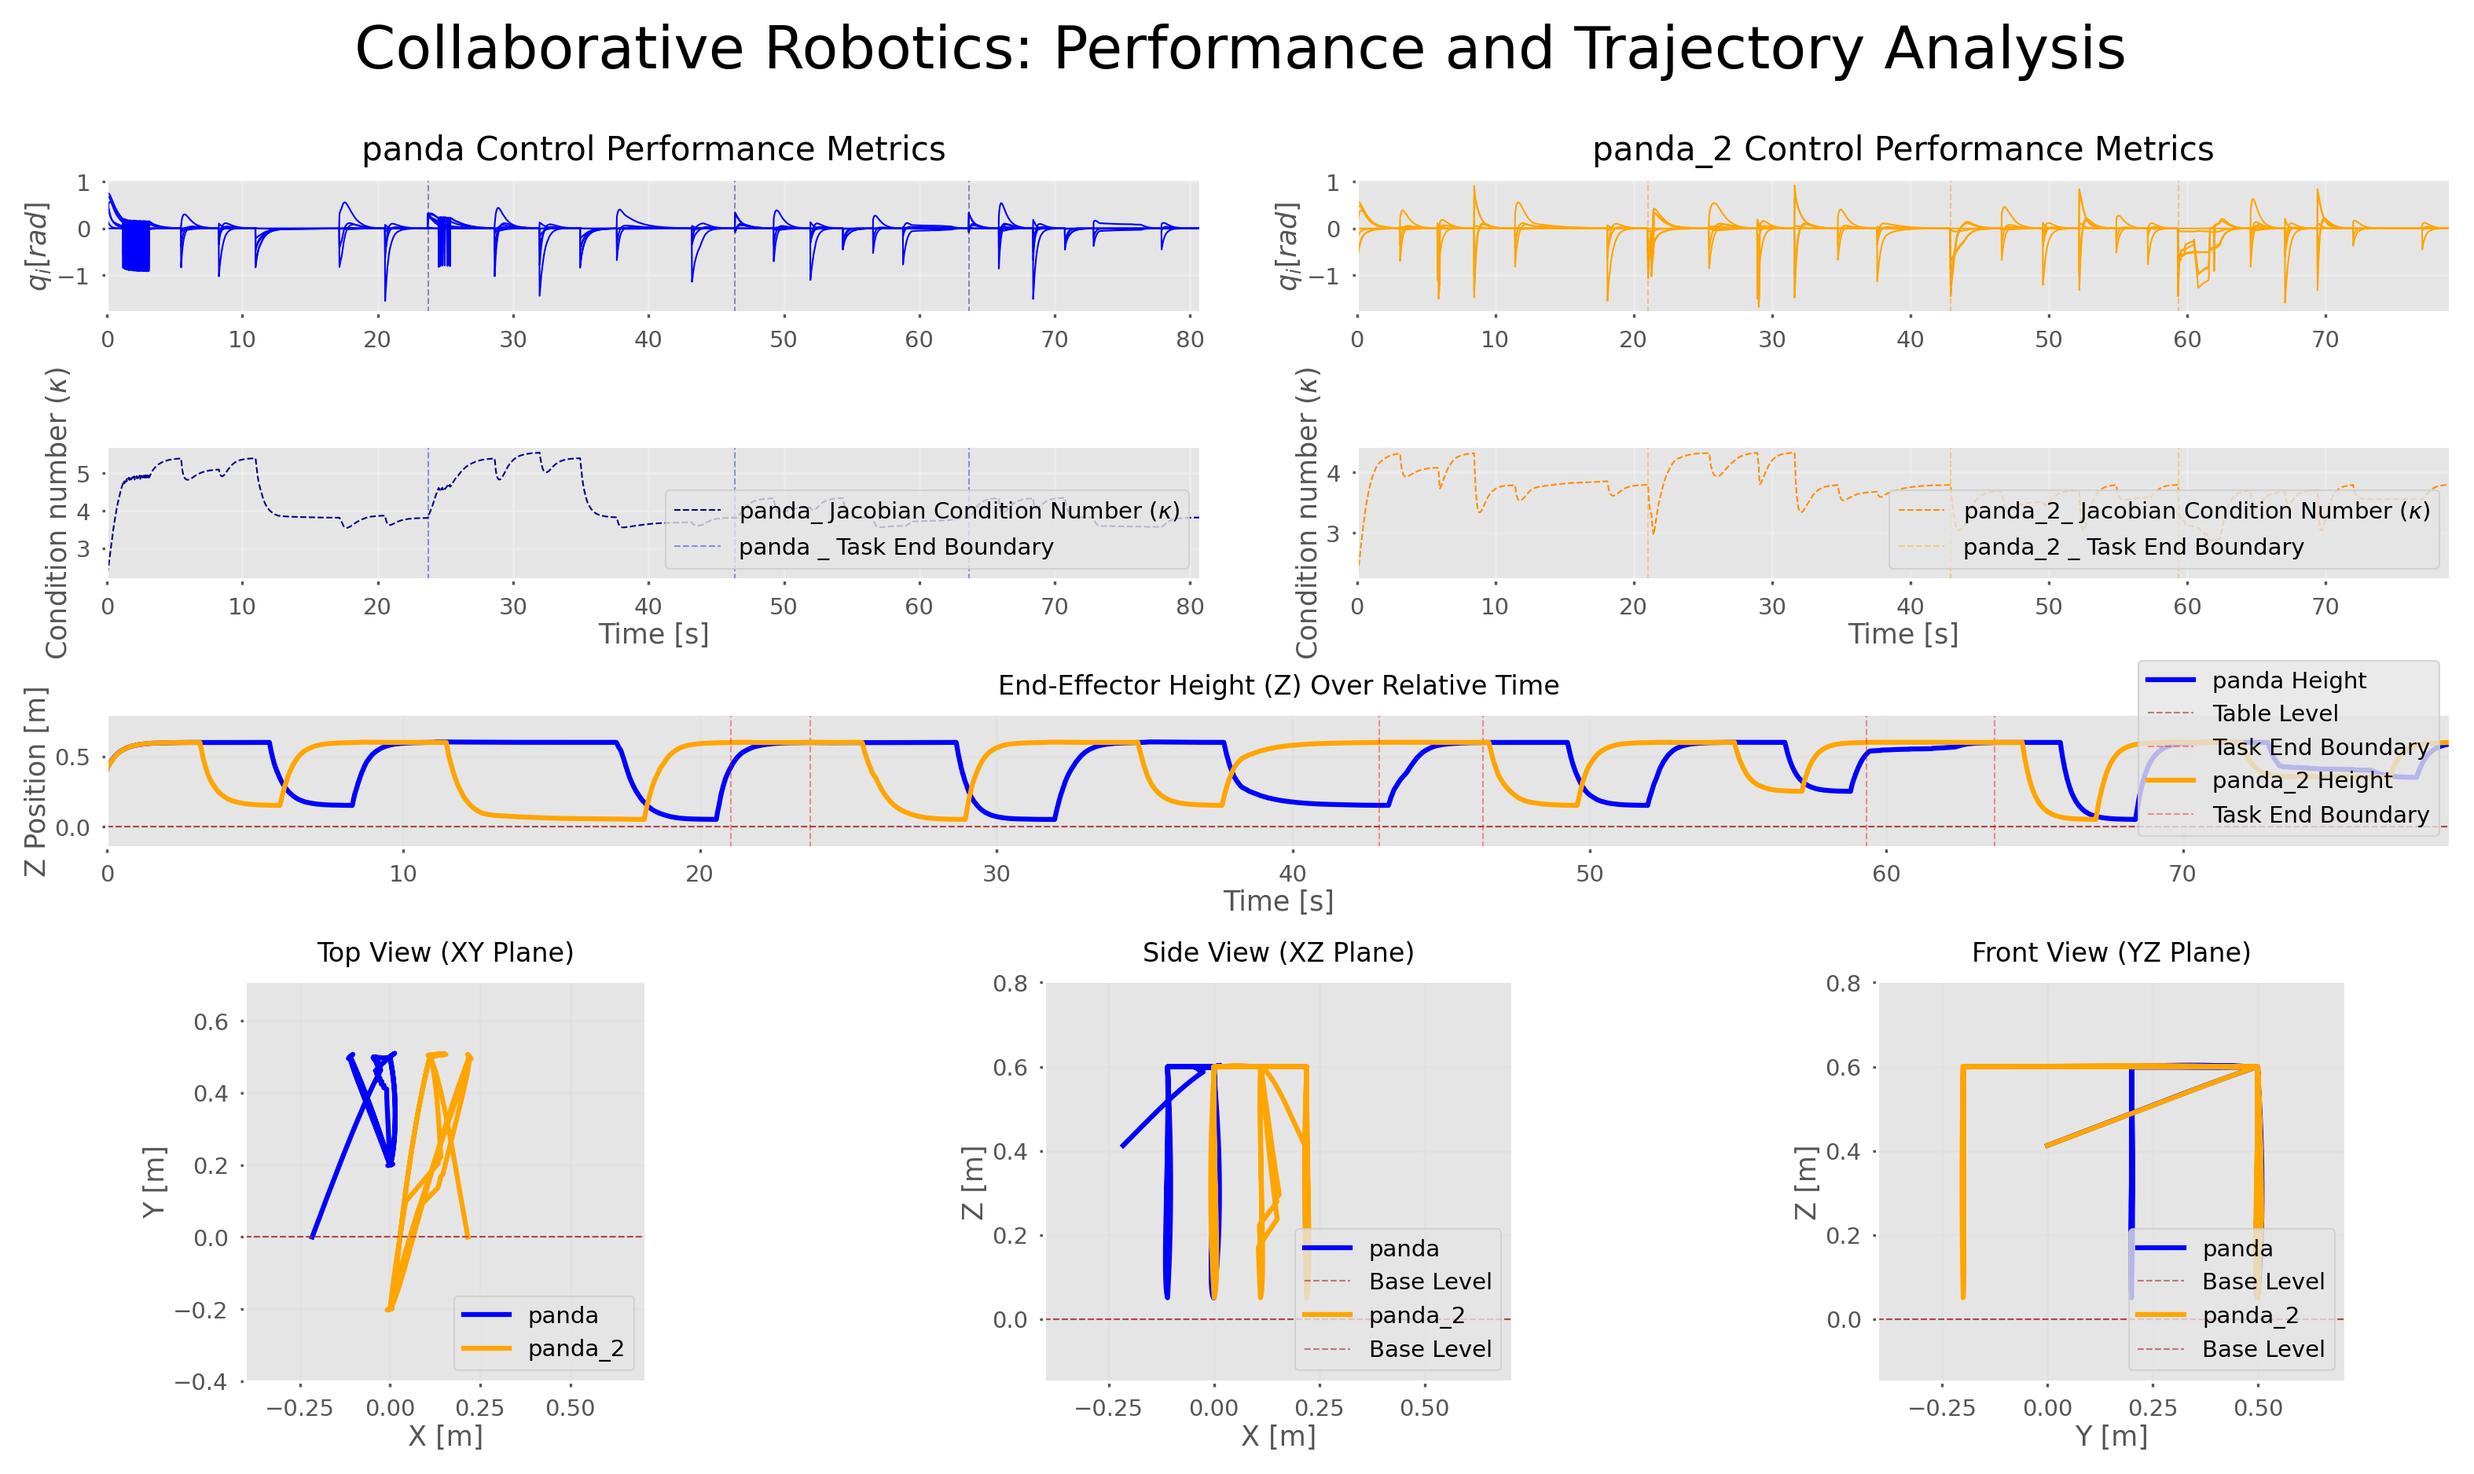
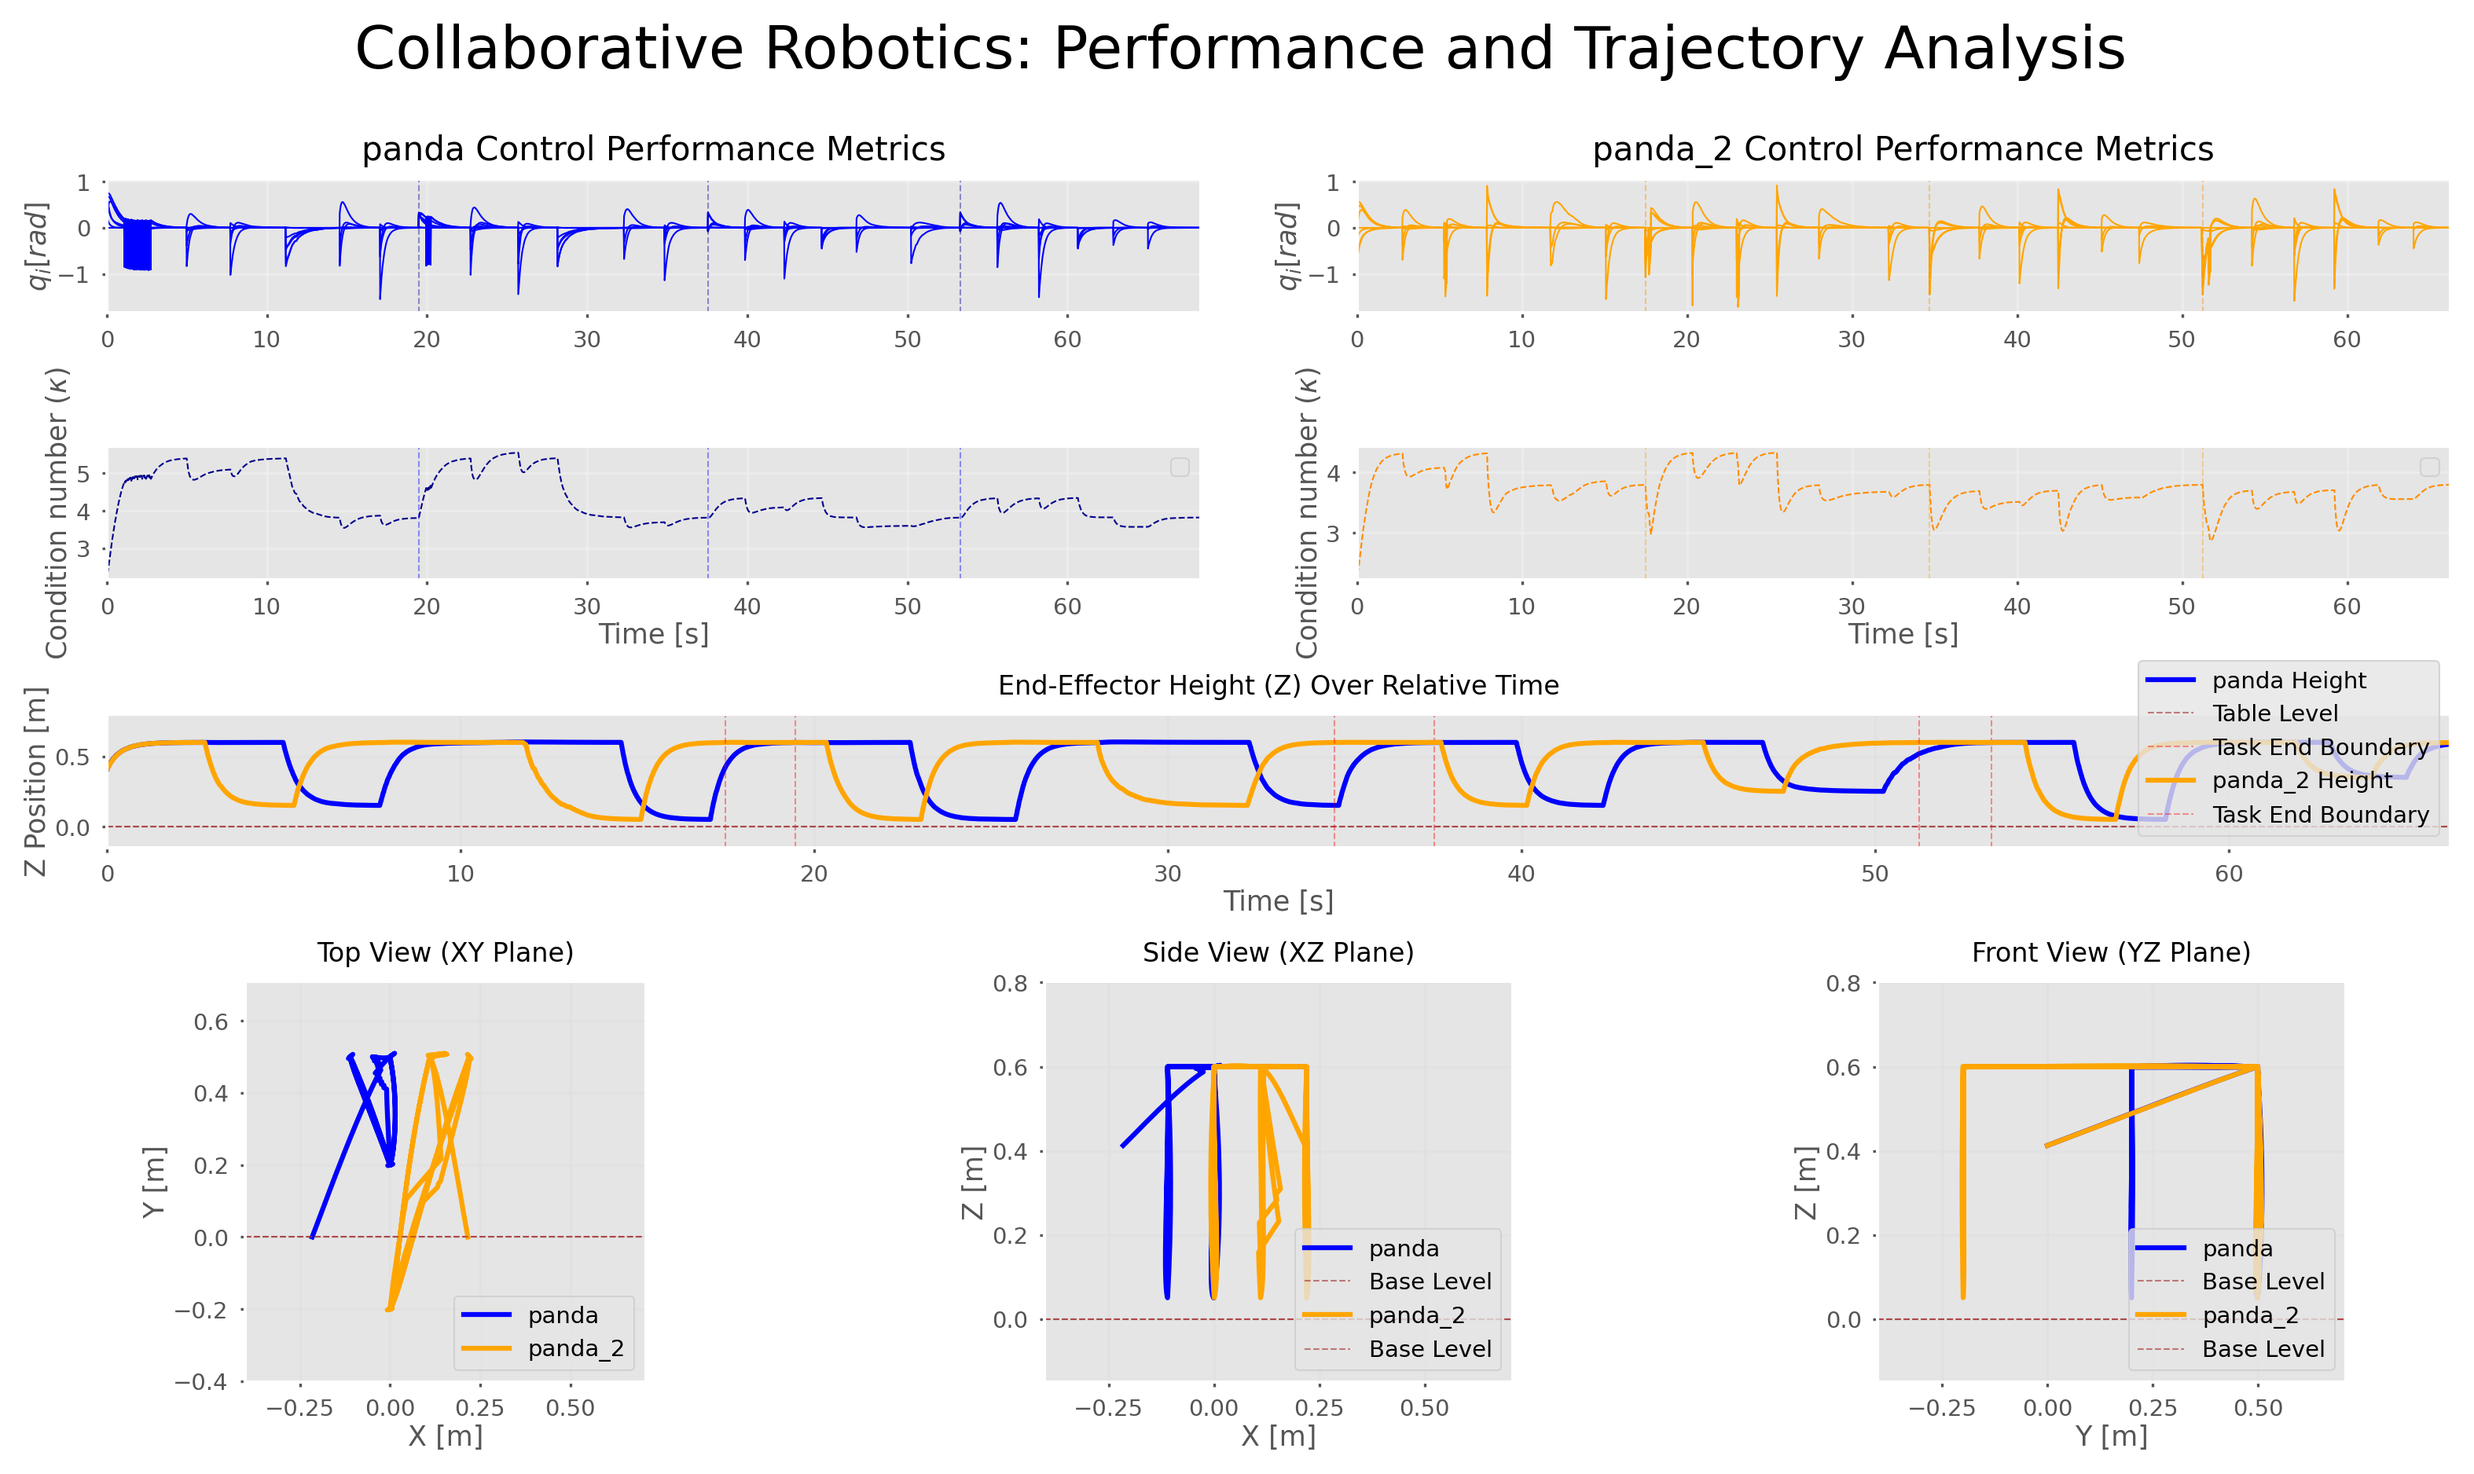
improve: plot_all_metrics_combined() legends

diff --git a/main.py b/main.py
@@ -119,8 +119,8 @@ def plot_all_metrics_combined(panda_agent_1, panda_agent_2, global_limits_3d=Non
     for ax in axes:
         ax.legend(loc='lower right')
 
-    # ax_cond_1.legend(False)
-    # ax_cond_2.legend(False)
+    ax_cond_1.legend([])
+    ax_cond_2.legend([])
     
     fig.suptitle('Collaborative Robotics: Performance and Trajectory Analysis', fontsize=18)
     
